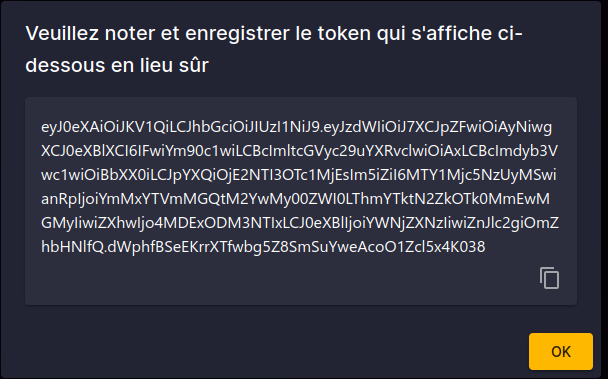
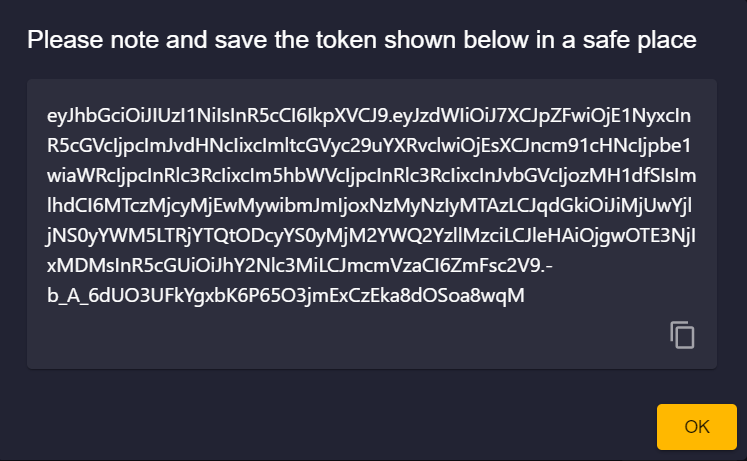
docs: upgrade screenshot for new features and more details on user guide

diff --git a/docs/user-guide/1-interface.md b/docs/user-guide/1-interface.md
@@ -14,13 +14,28 @@ tags:
   - dataset
   - batch
   - launch
+  - settings
 ---
 
 # User interface
 
-## What's new (2.17.6)
+## What's new (2.18.0)
 - redesign of the debug view, with the possibility of importing files into the user folder. See more details [here](./study/05-debug.md)
-- new api for economy/mc-all aggregation. See [apidoc](#api-documentation) for more details.
+- new endpoint for admin to clear snapshots
+- update version of python to 3.11
+- time series generator for thermals clusters. See more details [here](../user-guide/simulation-configuration/all-configurations.md#time-series-management)
+- installer for desktop version of Antares Web
+- use .7z format to export and archive studies
+- new component for matrix (Data Glide)
+- adding column filters and search bar on results view
+- enhance results columns headers
+- adding aggregates columns on some matrix
+- disable copy/paste on matrix 
+- allow csv import
+- allow to change app language. See more details [here](#tabs-description)
+
+Antares Web is supporting antares simulator version untill v8.8.x.
+For more details, see the changelog.
 
 ## Main features of the interface
 
@@ -150,9 +165,24 @@ The data which can be uploaded are either a single tsv file, or a zipped list of
 
 ![](../assets/media/img/userguide_dataset_creation.png)
 
-## User account and api tokens
+## Settings
 
-For normal user, the account section allows the creation of "api token".  
+The settings are accessible in the menu on the left of the application. There are a total of 5 tabs that are visible depending on the user profile:
+- the normal user has access to GENERAL and TOKENS tabs
+- the administrator user of a group has access to the GROUPS tab in addition to the normal user tabs
+- the server administrator has access to all tabs (USERS and MAINTENANCE tabs in addition to the others).
+
+### Tabs description
+1. GENERAL: allows you to change the language of the application, two possible choices English or French
+2. USERS: List of users on the server, you can create, delete or modify their permissions
+3. GROUPS: List of user groups on the server, you can create, delete, modify its list of users or their permissions in the group
+4. TOKENS: Allows you to create a token that will be used to access to APIs via scripts
+5. MAINTENANCE: Allows you to put the server in maintenance mode, preventing other users other than the administrator from accessing the application. 
+
+![userguide_change_language.png](../assets/media/img/userguide_change_language.png)
+
+### Create a token
+
 These token can be used in scripts that will use the [API](#api-documentation).
 
 ![](../assets/media/img/userguide_token_listing.png)

diff --git a/docs/developer-guide/install/2-DEPLOY.md b/docs/developer-guide/install/2-DEPLOY.md
@@ -68,28 +68,28 @@ These steps should work on any linux system with docker and docker-compose insta
 This is an example of a deployment.
 You'll have to edit your own `docker-compose.yml` file and [`application.yaml` configuration](./1-CONFIG.md) to customize it to your needs.
 
-## Local application build
+## Local desktop application
 
 The local application is a bundled build of the web server to ease its launch as a kind of desktop application.  
-When started, the application will be shown as a systray application (icon in the bottom right corner of the Windows bar). The menu will allow to go
-to the local address where the interface is available.
+When started, the application will be shown as a systray application (icon in the bottom right corner of the Windows bar). The menu will allow to go to the local address where the interface is available.
 
 The build is directly available in the [release](https://github.com/AntaresSimulatorTeam/AntaREST/releases) files for each version.
 
 You can download the latest version here:
 
-- [For Windows](https://github.com/AntaresSimulatorTeam/AntaREST/releases/download/v2.17.6/AntaresWeb-windows-v2.17.6.zip)
-- [For Ubuntu 20.04 ](https://github.com/AntaresSimulatorTeam/AntaREST/releases/download/v2.17.6/AntaresWeb-ubuntu_20.04-v2.17.6.zip)
-- [For Ubuntu 22.04](https://github.com/AntaresSimulatorTeam/AntaREST/releases/download/v2.17.6/AntaresWeb-ubuntu_22.04-v2.17.6.zip)
+- [For Windows](https://github.com/AntaresSimulatorTeam/AntaREST/releases/download/v2.18.0/AntaresWeb-windows-v2.18.0.zip)
+- [For Ubuntu 20.04 ](https://github.com/AntaresSimulatorTeam/AntaREST/releases/download/v2.18.0/AntaresWeb-ubuntu_20.04-v2.18.0.zip)
+- [For Ubuntu 22.04](https://github.com/AntaresSimulatorTeam/AntaREST/releases/download/v2.18.0/AntaresWeb-ubuntu_22.04-v2.18.0.zip)
 
 The local application contains an installer program that you can use to manage the installation. 
 This program will keep your local data while updating the functional parts of the server.
 
 ### GUI installer (windows only)
 
-Double-click on the installer executable and follow the instructions. 
-In case you already have a local application, choose your current application path
-in order to update it.
+Double-click on the AntaresWebInstaller.exe executable and follow the instructions. 
+In case you already have a local application, choose your current application path in order to update it.
+
+![installer_screenshot.png](../../assets/media/img/installer_screenshot.png)
 
 ### CLI installer (linux only)
 

diff --git a/docs/user-guide/simulation-configuration/all-configurations.md b/docs/user-guide/simulation-configuration/all-configurations.md
@@ -65,7 +65,20 @@ On the thematic trimming window, you will find the following elements:
 The detailed configuration is available in the [Antares Simulator documentation](https://antares-simulator.readthedocs.io/en/stable/user-guide/ts-generator/04-parameters/#general-parameters).
 
 ## Time-series management
-> TODO
+
+To access to Time-series management : 
+1. From the "Study" view, click on the "CONFIGURATION" tab
+2. The second next tab is for time series management.
+
+![01-configuration-timeseries-management1.png](../../assets/media/user-guide/simulation-configuration/02-configuration-timeseries-management1.png)
+
+In this view you can generate time series for all thermals clusters. Choose "To be Generated" and set the number stochastics TS you want. And clic on GENERATE TS.
+
+![01-configuration-timeseries-management2.png](../../assets/media/user-guide/simulation-configuration/02-configuration-timeseries-management2.png)
+
+It'll create a task you can monitor on the Tasks view. The TS generate are visible on Availability tab of the thermal cluster of the study.
+
+A new library [antares-timeseries-generation](https://github.com/AntaresSimulatorTeam/antares-timeseries-generation) was created to generate time series for clusters.
 
 ## Optimization preferences
 > TODO

diff --git a/docs/user-guide/study/08-results.md b/docs/user-guide/study/08-results.md
@@ -7,9 +7,27 @@ tags:
 
   - results
   - output
+  - simulation results
 
 ---
 
 # Results
 **_This section is under construction_**
-> TODO : describe here the results view
+
+This page is dedicated to the results of a simulation.
+
+To access results :
+
+1. From the "Study" view, click on the "RESULTS" tab.
+
+![09-results-view.png](../../assets/media/user-guide/study/09-results-view.png)
+
+On the results page, you will find the following elements:
+
+- **Toolbar:** Use the toolbar to filter and quickly search in the matrix results
+- **Monte-Carlo filter output profile:** choose between Synthesis ou Year-by-year output
+- **Display:** choose betwen Geneal values, Thermal plants, Ren. clusters, RecordYear ou ST Storages
+- **Temporality:** choose between Hourly, Daily, Weekly, Monthly or Annuel
+- **EXPORT button:** You can choose to export a specfic output matrix in TSV or Excel format.
+
+[⬅ Back to Study Configuration](../2-study.md)

diff --git a/docs/user-guide/study/05-debug.md b/docs/user-guide/study/05-debug.md
@@ -1,4 +1,5 @@
 # Debug View
+**_This section is under construction_**
 
 This page is dedicated to the debugging of the study in the Antares Web application.
 

diff --git a/docs/developer-guide/5-roadmap.md b/docs/developer-guide/5-roadmap.md
@@ -1,1 +1,2 @@
-#Roadmap
+# Roadmap
+**_This section is under construction_**
